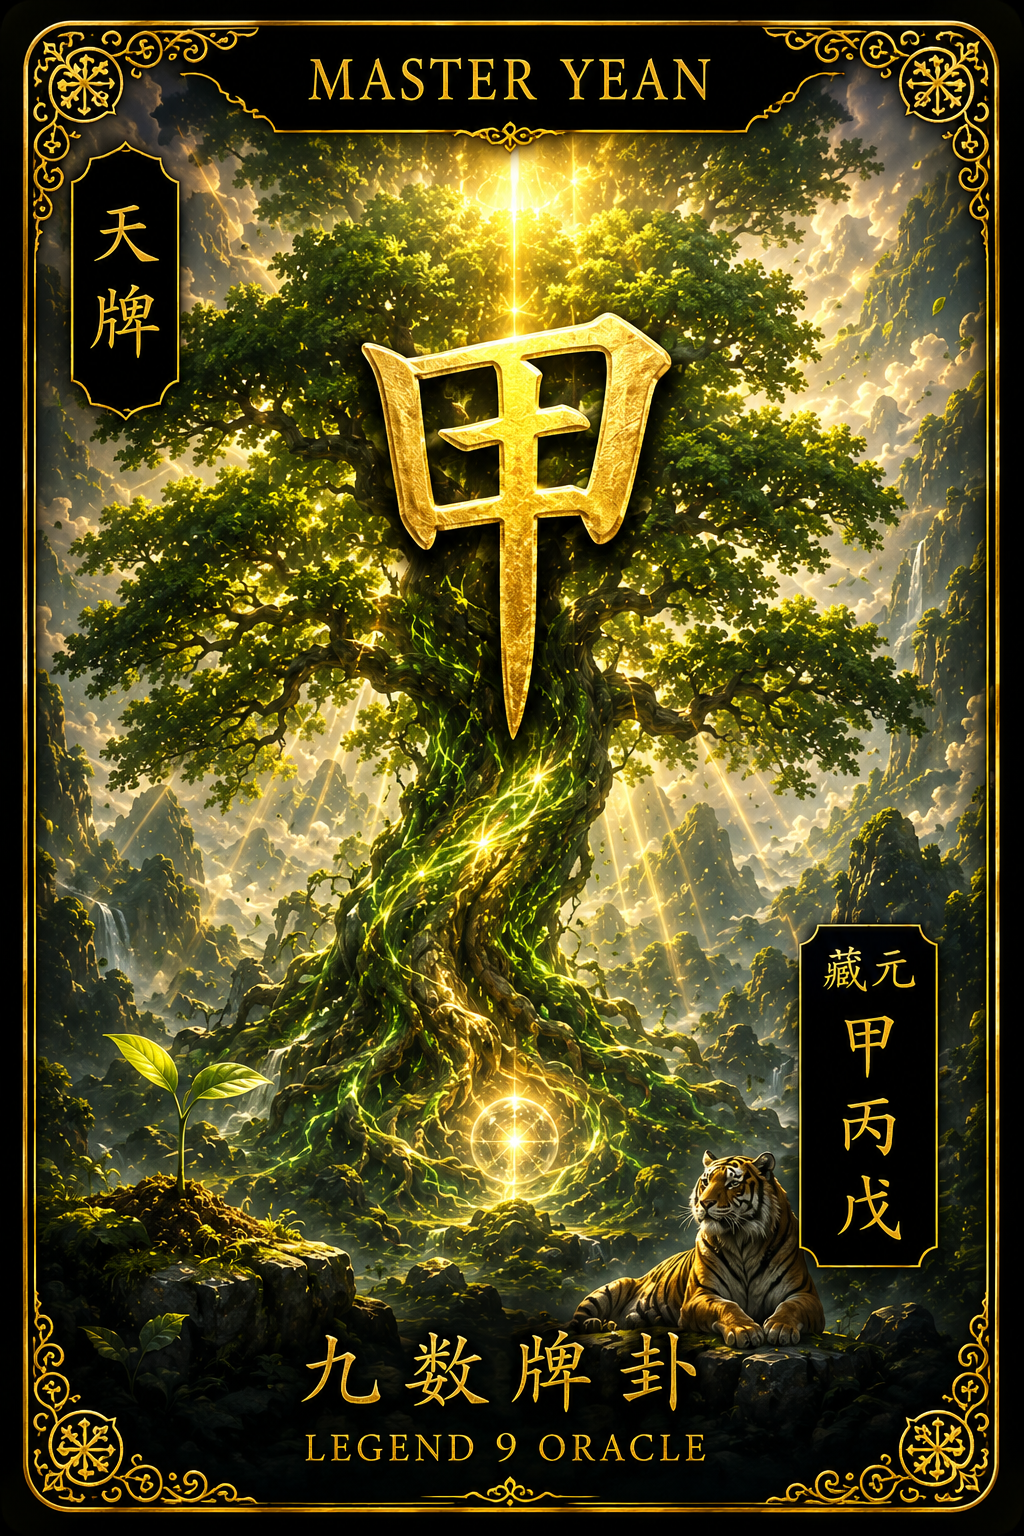
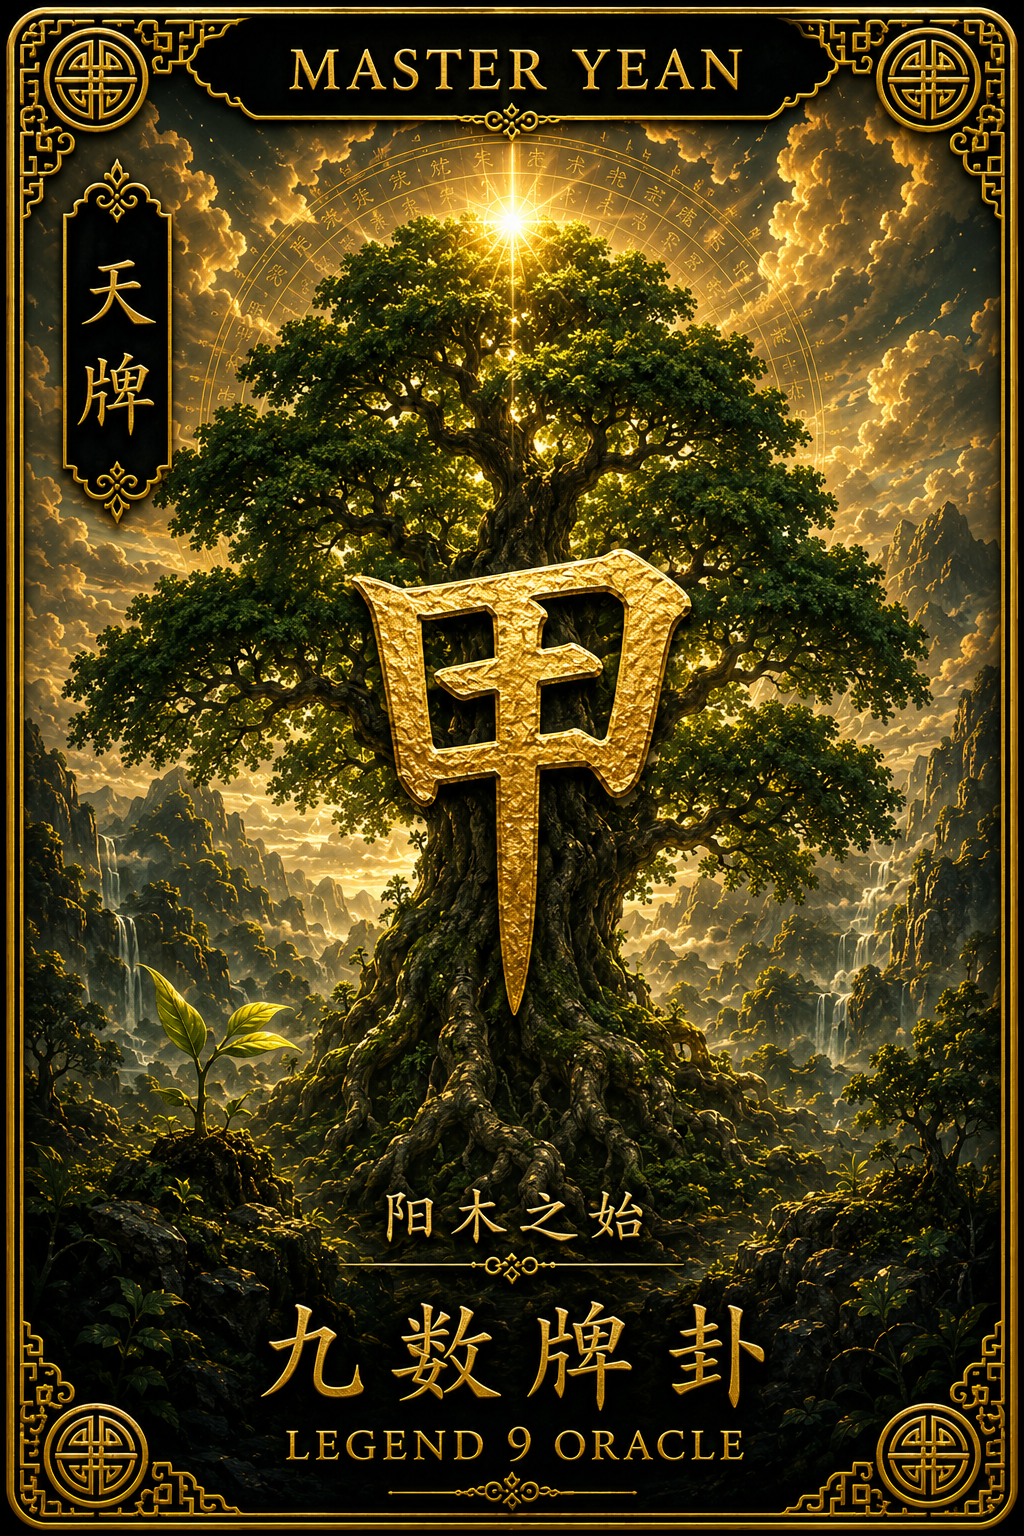
Added heaven and earth oracle artwork cards

diff --git a/src/data/cards.js b/src/data/cards.js
@@ -1,39 +1,222 @@
 import tianJia from "../assets/cards/heaven/tian_jia.png";
+import tianYi from "../assets/cards/heaven/tian_yi.png";
+import tianBing from "../assets/cards/heaven/tian_bing.png";
+import tianDing from "../assets/cards/heaven/tian_ding.png";
+import tianWu from "../assets/cards/heaven/tian_wu.png";
+import tianJi from "../assets/cards/heaven/tian_ji.png";
+import tianGeng from "../assets/cards/heaven/tian_geng.png";
+import tianXin from "../assets/cards/heaven/tian_xin.png";
+import tianRen from "../assets/cards/heaven/tian_ren.png";
+import tianGui from "../assets/cards/heaven/tian_gui.png";
+
+import diYin from "../assets/cards/earth/di_yin.png";
+import diMao from "../assets/cards/earth/di_mao.png";
+import diChen from "../assets/cards/earth/di_chen.png";
+import diSi from "../assets/cards/earth/di_si.png";
+
+import diWu from "../assets/cards/earth/di_wu.png";
+import diWei from "../assets/cards/earth/di_wei.png";
+import diShen from "../assets/cards/earth/di_shen.png";
+import diYou from "../assets/cards/earth/di_you.png";
+
+import diXu from "../assets/cards/earth/di_xu.png";
+import diHai from "../assets/cards/earth/di_hai.png";
+import diZi from "../assets/cards/earth/di_zi.png";
+import diChou from "../assets/cards/earth/di_chou.png";
+
+import renYin from "../assets/cards/human/ren_yin.png";
+import renMao from "../assets/cards/human/ren_mao.png";
+import renChen from "../assets/cards/human/ren_chen.png";
+import renSi from "../assets/cards/human/ren_si.png";
+
+import renWu from "../assets/cards/human/ren_wu.png";
+import renWei from "../assets/cards/human/ren_wei.png";
+import renShen from "../assets/cards/human/ren_shen.png";
+import renYou from "../assets/cards/human/ren_you.png";
+
+import renXu from "../assets/cards/human/ren_xu.png";
+import renHai from "../assets/cards/human/ren_hai.png";
+import renZi from "../assets/cards/human/ren_zi.png";
+import renChou from "../assets/cards/human/ren_chou.png";
+
+
 
 export const skyCards = [
-  {
-    name: "甲",
-    image: tianJia
-  },
-  {
-    name: "乙"
-  },
-  {
-    name: "丙"
-  },
-  {
-    name: "丁"
-  },
-  {
-    name: "戊"
-  },
-  {
-    name: "己"
-  },
-  {
-    name: "庚"
-  },
-  {
-    name: "辛"
-  },
-  {
-    name: "壬"
-  },
-  {
-    name: "癸"
-  }
+
+{
+name:"甲",
+image:tianJia
+},
+
+{
+name:"乙",
+image:tianYi
+},
+
+{
+name:"丙",
+image:tianBing
+},
+
+{
+name:"丁",
+image:tianDing
+},
+
+{
+name:"戊",
+image:tianWu
+},
+
+{
+name:"己",
+image:tianJi
+},
+
+{
+name:"庚",
+image:tianGeng
+},
+
+{
+name:"辛",
+image:tianXin
+},
+
+{
+name:"壬",
+image:tianRen
+},
+
+{
+name:"癸",
+image:tianGui
+}
+
 ];
 
-export const earthCards = ["寅","卯","辰","巳","午","未","申","酉","戌","亥","子","丑"];
+export const earthCards = [
 
-export const humanCards = ["寅","卯","辰","巳","午","未","申","酉","戌","亥","子","丑"];
+{
+name:"寅",
+image:diYin
+},
+
+{
+name:"卯",
+image:diMao
+},
+
+{
+name:"辰",
+image:diChen
+},
+
+{
+name:"巳",
+image:diSi
+},
+
+{
+name:"午",
+image:diWu
+},
+
+{
+name:"未",
+image:diWei
+},
+
+{
+name:"申",
+image:diShen
+},
+
+{
+name:"酉",
+image:diYou
+},
+
+{
+name:"戌",
+image:diXu
+},
+
+{
+name:"亥",
+image:diHai
+},
+
+{
+name:"子",
+image:diZi
+},
+
+{
+name:"丑",
+image:diChou
+}
+
+];
+
+export const humanCards = [{
+name:"寅",
+image:renYin
+},
+
+{
+name:"卯",
+image:renMao
+},
+
+{
+name:"辰",
+image:renChen
+},
+
+{
+name:"巳",
+image:renSi
+},
+
+{
+name:"午",
+image:renWu
+},
+
+{
+name:"未",
+image:renWei
+},
+
+{
+name:"申",
+image:renShen
+},
+
+{
+name:"酉",
+image:renYou
+},
+
+{
+name:"戌",
+image:renXu
+},
+
+{
+name:"亥",
+image:renHai
+},
+
+{
+name:"子",
+image:renZi
+},
+
+{
+name:"丑",
+image:renChou
+}
+
+];

diff --git a/src/App.jsx b/src/App.jsx
@@ -122,7 +122,7 @@ style={{left:"75%", top:"65%"}}
 </div>
 
 <div style={styles.resultCard}>
-{sky}
+{sky?.name || sky}
 </div>
 
 </div>
@@ -139,7 +139,7 @@ style={{left:"75%", top:"65%"}}
 </div>
 
 <div style={styles.resultCard}>
-{earth}
+{earth?.name || earth}
 </div>
 
 </div>
@@ -153,7 +153,7 @@ style={{left:"75%", top:"65%"}}
 </div>
 
 <div style={styles.resultCard}>
-{human}
+{human?.name || human}
 </div>
 
 </div>